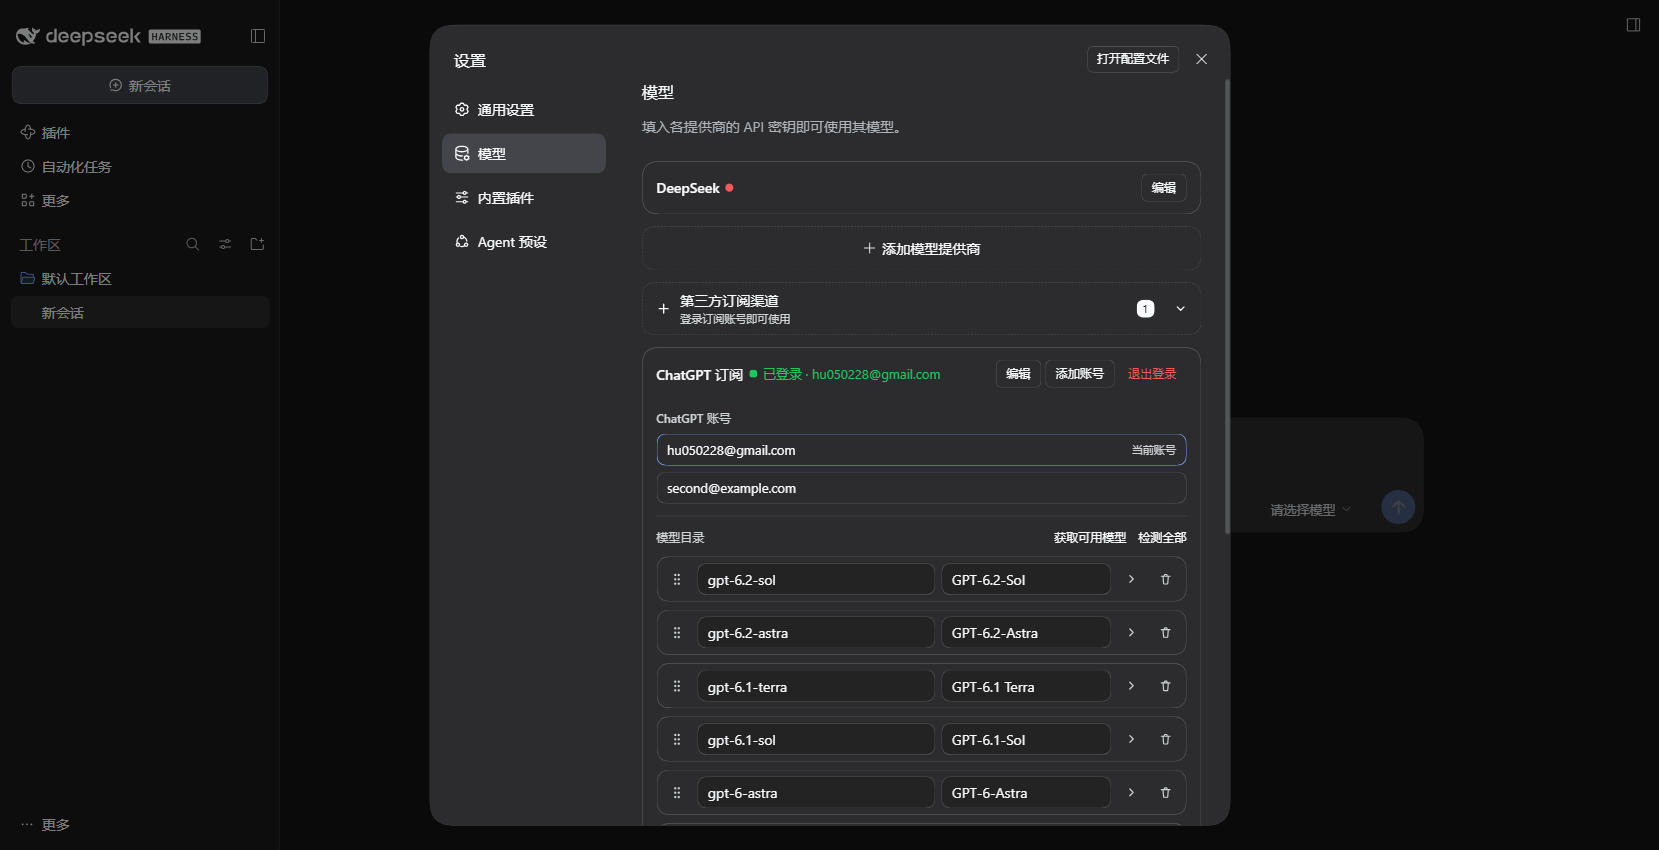
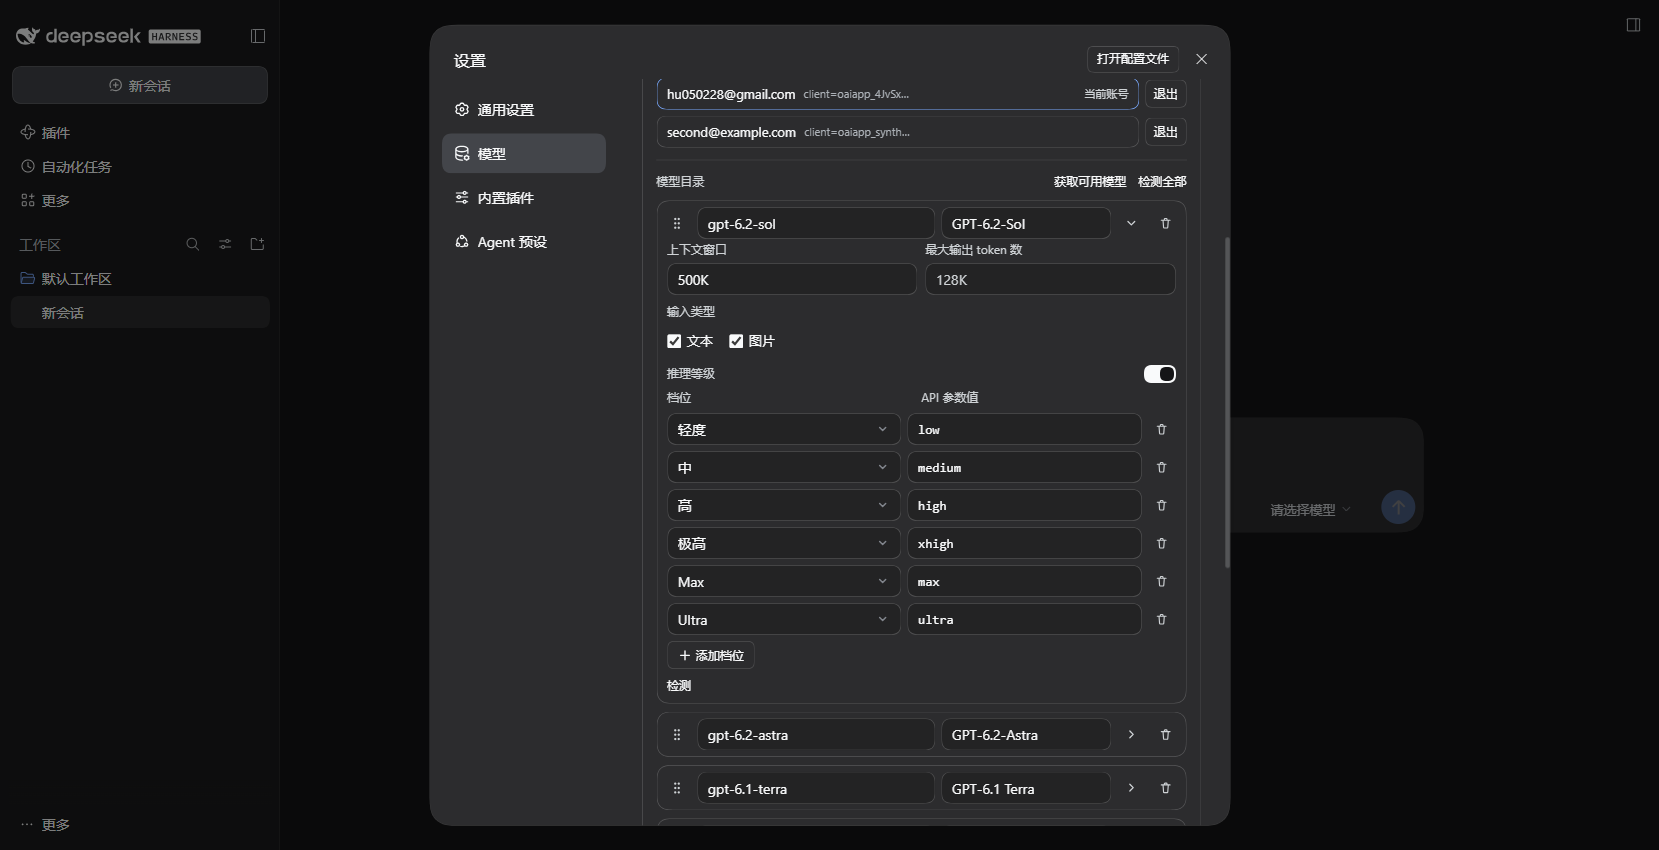
feat(chatgpt): 图片输入与模型元数据完善 (v0.2.9)
- 静态目录为视觉模型声明 inputModalities: text+image；/v1/models 的 input_modalities 优先
- 目录模型带上 discovery 的 context_window、supported_reasoning_levels（含 max）、default_reasoning_level
- 新增 MAX 档位与本地化标签；文本覆盖在视觉模型上会显式保存
- 修复图片被默认剥离：catalogModels 按模型能力决定默认输入类型
- 真实账号发送 PNG 验证通过（answer: A red circle）；新增附件→payload 单测
- 测试 48 → 51

diff --git a/src/service.js b/src/service.js
@@ -127,7 +127,7 @@ export class SubscriptionService {
       const override = stored.overrides[model.id] !== null && typeof stored.overrides[model.id] === 'object' ? stored.overrides[model.id] : {}
       const info = channel.modelInfo?.(model.id)
       const template = info ?? model
-      const available = (info?.reasoning?.efforts ?? channel.reasoningEfforts ?? []).map(effort => ({
+      const available = (info?.reasoning?.efforts ?? (Array.isArray(model.efforts) && model.efforts.length > 0 ? model.efforts : channel.reasoningEfforts) ?? []).map(effort => ({
         id: effort.id,
         name: effort.name ?? effort.id,
         wire: typeof effort.wire === 'string' ? effort.wire : (channel.wireValue?.(effort.id) ?? effort.id),
@@ -149,10 +149,13 @@ export class SubscriptionService {
         : available
       const defaultEffort = typeof override.defaultEffort === 'string' && chosen.some(effort => effort.id === override.defaultEffort)
         ? override.defaultEffort
-        : chosen.some(effort => effort.id === template?.reasoning?.defaultEffort)
-          ? template.reasoning.defaultEffort
+        : chosen.some(effort => effort.id === (template?.reasoning?.defaultEffort ?? model.defaultEffort))
+          ? (template?.reasoning?.defaultEffort ?? model.defaultEffort)
           : chosen[0]?.id
-      const input = Array.isArray(override.input) && override.input.includes('image') ? ['text', 'image'] : ['text']
+      const acceptsImage = info?.inputModalities?.includes('image') === true || (Array.isArray(model.inputModalities) && model.inputModalities.includes('image'))
+      const input = Array.isArray(override.input)
+        ? (override.input.includes('image') ? ['text', 'image'] : ['text'])
+        : acceptsImage ? ['text', 'image'] : ['text']
       return {
         id: model.id,
         name: typeof override.name === 'string' && override.name.trim().length > 0 ? override.name.trim() : (model.name ?? model.id),
@@ -353,7 +356,11 @@ export class SubscriptionService {
     }
     if ('input' in patch) {
       const list = Array.isArray(patch.input) ? patch.input.filter(value => value === 'text' || value === 'image') : ['text']
+      const supportsImage = this.model(channel, modelId)?.inputModalities?.includes('image') === true
       if (list.includes('image')) next.input = ['text', 'image']
+      // A text-only override on a vision model must be stored, because the
+      // model's own default now includes images.
+      else if (supportsImage) next.input = ['text']
       else delete next.input
     }
     stored.overrides[modelId] = next
@@ -385,6 +392,9 @@ export class SubscriptionService {
       name: typeof model.name === 'string' ? model.name : String(model.id),
       ...positiveInt(model.contextWindow) === undefined ? {} : { contextWindow: positiveInt(model.contextWindow) },
       ...positiveInt(model.maxTokens) === undefined ? {} : { maxTokens: positiveInt(model.maxTokens) },
+      ...Array.isArray(model.inputModalities) && model.inputModalities.length > 0 ? { inputModalities: model.inputModalities } : {},
+      ...Array.isArray(model.efforts) && model.efforts.length > 0 ? { efforts: model.efforts.map(entry => ({ id: String(entry.id), name: String(entry.name ?? entry.id) })) } : {},
+      ...typeof model.defaultEffort === 'string' ? { defaultEffort: model.defaultEffort } : {},
       ...typeof model.effort === 'string' ? { effort: model.effort } : {},
       ...typeof model.family === 'string' ? { family: model.family } : {},
     }))
@@ -663,6 +673,9 @@ export class SubscriptionService {
         name: typeof model.name === 'string' ? model.name : String(model.id),
         ...positiveInt(model.contextWindow) === undefined ? {} : { contextWindow: positiveInt(model.contextWindow) },
         ...positiveInt(model.maxTokens) === undefined ? {} : { maxTokens: positiveInt(model.maxTokens) },
+        ...Array.isArray(model.inputModalities) && model.inputModalities.length > 0 ? { inputModalities: model.inputModalities } : {},
+        ...Array.isArray(model.efforts) && model.efforts.length > 0 ? { efforts: model.efforts.map(entry => ({ id: String(entry.id), name: String(entry.name ?? entry.id) })) } : {},
+        ...typeof model.defaultEffort === 'string' ? { defaultEffort: model.defaultEffort } : {},
         ...typeof model.effort === 'string' ? { effort: model.effort } : {},
         ...typeof model.family === 'string' ? { family: model.family } : {},
       }))
@@ -1022,6 +1035,7 @@ export class SubscriptionService {
     this.routes.clear()
   }
 }
+
 
 
 

diff --git a/src/channels/chatgpt.js b/src/channels/chatgpt.js
@@ -36,11 +36,11 @@ const USER_AGENT = 'deepseek-harness (+https://github.com/deepseek-ai/deepseek-h
 
 /** Model catalog advertised before the account is asked anything. */
 const MODELS = [
-  { id: 'gpt-6.1-sol', name: 'GPT-6.1 Sol', contextWindow: 500_000, maxTokens: 128_000, efforts: ['low', 'medium', 'high'] },
-  { id: 'gpt-6-sol', name: 'GPT-6 Sol', contextWindow: 272_000, maxTokens: 128_000, efforts: ['low', 'medium', 'high'] },
-  { id: 'gpt-6-astra', name: 'GPT-6 Astra', contextWindow: 272_000, maxTokens: 128_000, efforts: ['low', 'medium', 'high'] },
-  { id: 'gpt-5.6-sol', name: 'GPT-5.6 Sol', contextWindow: 272_000, maxTokens: 128_000, efforts: ['low', 'medium', 'high'] },
-  { id: 'gpt-5.5', name: 'GPT-5.5', contextWindow: 272_000, maxTokens: 128_000, efforts: ['low', 'medium', 'high'] },
+  { id: 'gpt-6.1-sol', name: 'GPT-6.1 Sol', contextWindow: 500_000, maxTokens: 128_000, inputModalities: ['text', 'image'], efforts: ['low', 'medium', 'high'] },
+  { id: 'gpt-6-sol', name: 'GPT-6 Sol', contextWindow: 272_000, maxTokens: 128_000, inputModalities: ['text', 'image'], efforts: ['low', 'medium', 'high'] },
+  { id: 'gpt-6-astra', name: 'GPT-6 Astra', contextWindow: 272_000, maxTokens: 128_000, inputModalities: ['text', 'image'], efforts: ['low', 'medium', 'high'] },
+  { id: 'gpt-5.6-sol', name: 'GPT-5.6 Sol', contextWindow: 272_000, maxTokens: 128_000, inputModalities: ['text', 'image'], efforts: ['low', 'medium', 'high'] },
+  { id: 'gpt-5.5', name: 'GPT-5.5', contextWindow: 272_000, maxTokens: 128_000, inputModalities: ['text', 'image'], efforts: ['low', 'medium', 'high'] },
   { id: 'gpt-5.3-codex-spark', name: 'GPT-5.3 Codex Spark', contextWindow: 128_000, maxTokens: 128_000, efforts: ['low', 'medium', 'high'] },
 ]
 
@@ -50,6 +50,7 @@ const LEVELS = {
   medium: { id: 'medium', name: 'Medium', wire: 'medium' },
   high: { id: 'high', name: 'High', wire: 'high' },
   xhigh: { id: 'xhigh', name: 'Extra high', wire: 'xhigh' },
+  max: { id: 'max', name: 'Max', wire: 'max' },
   ultra: { id: 'ultra', name: 'Ultra', wire: 'ultra' },
 }
 
@@ -379,11 +380,21 @@ export default {
       .map((entry) => {
         const id = String(entry.slug ?? entry.id ?? '')
         const known = MODELS.find(model => model.id === id)
+        const levels = Array.isArray(entry.supported_reasoning_levels)
+          ? entry.supported_reasoning_levels
+            .map(level => String(level?.effort ?? ''))
+            .filter(effort => effort.length > 0)
+          : []
         return {
           id,
           name: String(entry.display_name ?? entry.name ?? id),
-          contextWindow: known?.contextWindow,
+          contextWindow: typeof entry.context_window === 'number' ? entry.context_window : known?.contextWindow,
           maxTokens: known?.maxTokens,
+          ...Array.isArray(entry.input_modalities)
+            ? { inputModalities: entry.input_modalities.map(value => String(value)).filter(value => value === 'text' || value === 'image') }
+            : known?.inputModalities === undefined ? {} : { inputModalities: known.inputModalities },
+          ...levels.length === 0 ? {} : { efforts: levels.map(effort => ({ id: effort, name: LEVELS[effort]?.name ?? effort })) },
+          ...typeof entry.default_reasoning_level === 'string' ? { defaultEffort: entry.default_reasoning_level } : {},
         }
       })
       .filter(entry => entry.id.length > 0)
@@ -581,3 +592,5 @@ function mapUsage(usage) {
       : {}),
   }
 }
+
+

diff --git a/client.js b/client.js
@@ -46,6 +46,7 @@ window.__ModuleLoader__.load({
       effortHigh: '高',
       effortXhigh: '极高',
       effortUltra: 'Ultra',
+      effortMax: 'Max',
       effortOff: '关闭',      catalog: '模型目录',
       catalogCustomized: '已自定义模型目录',
       resetCatalog: '恢复默认模型',
@@ -114,6 +115,7 @@ window.__ModuleLoader__.load({
       effortHigh: 'High',
       effortXhigh: 'Extra high',
       effortUltra: 'Ultra',
+      effortMax: 'Max',
       effortOff: 'Off',      catalog: 'Model catalog',
       catalogCustomized: 'Customized catalog',
       resetCatalog: 'Restore defaults',
@@ -309,7 +311,7 @@ window.__ModuleLoader__.load({
       const input = Array.isArray(model.inputModalities) ? model.inputModalities : ['text']
       const hasImage = input.includes('image')
       const hasText = input.includes('text')
-      const levelIds = [...new Set([...available.map(effort => effort.id), ...rows.map(row => row.id), 'off', 'minimal', 'low', 'medium', 'high', 'xhigh', 'ultra'])]
+      const levelIds = [...new Set([...available.map(effort => effort.id), ...rows.map(row => row.id), 'off', 'minimal', 'low', 'medium', 'high', 'xhigh', 'max', 'ultra'])]
       const defaultWire = (id) => available.find(effort => effort.id === id)?.wire ?? id
 
       const writeEfforts = (next) => { void patch({ efforts: next }) }
@@ -1522,6 +1524,7 @@ window.__ModuleLoader__.load({
     }
   },
 })
+
 
 
 

diff --git a/README.md b/README.md
@@ -130,7 +130,7 @@ export const CLIENT_SECRET = '<the antigravity client secret>'
 
 ## 测试
 
-仓库带有 48 项单元/集成测试，覆盖三条线路的流解析与请求体构造、图片序列化、令牌轮换、路由同步、超时结算、目录覆盖与可见性、检测结果分类：
+仓库带有 51 项单元/集成测试，覆盖三条线路的流解析与请求体构造、图片序列化、令牌轮换、路由同步、超时结算、目录覆盖与可见性、检测结果分类：
 
 ```bash
 npm test        # 等价于 node --test test/wire.test.mjs test/service.test.mjs
@@ -147,6 +147,7 @@ npm test        # 等价于 node --test test/wire.test.mjs test/service.test.mjs
 
 ## 版本
 
+- **v0.2.9**：图片输入打通（模型按 /v1/models 的 input_modalities 声明，未声明时静态表兜底；已用真实账号发送 PNG 验证）；模型目录同时带入 context_window、推理档位与默认档位。
 - **v0.2.8**：账号列表自动命名（邮箱前缀）并显示 client=… 前缀；支持逐个退出账号（两步确认），退出当前账号后自动切到仍可用的账号。
 - **v0.2.7**：移除旧 Codex 接入路径（遗留 grant 视为未登录）；设置页新增 ChatGPT 账号列表，可切换当前账号。
 - **v0.2.6**：真实账号回归（工具调用 + 第二轮历史、额度/断流错误映射、并发刷新）。
@@ -165,6 +166,7 @@ npm test        # 等价于 node --test test/wire.test.mjs test/service.test.mjs
 ---
 
 **English**: A DeepSeek Harness plugin that adds a *subscription channels* entry to Settings → Models, letting you sign in to existing ChatGPT, Google Antigravity, or Claude subscriptions (OAuth + PKCE, credentials in the local DSH store) and use their models directly. Unofficial upstream endpoints; text and tool calls only; MIT licensed.
+
 
 
 
